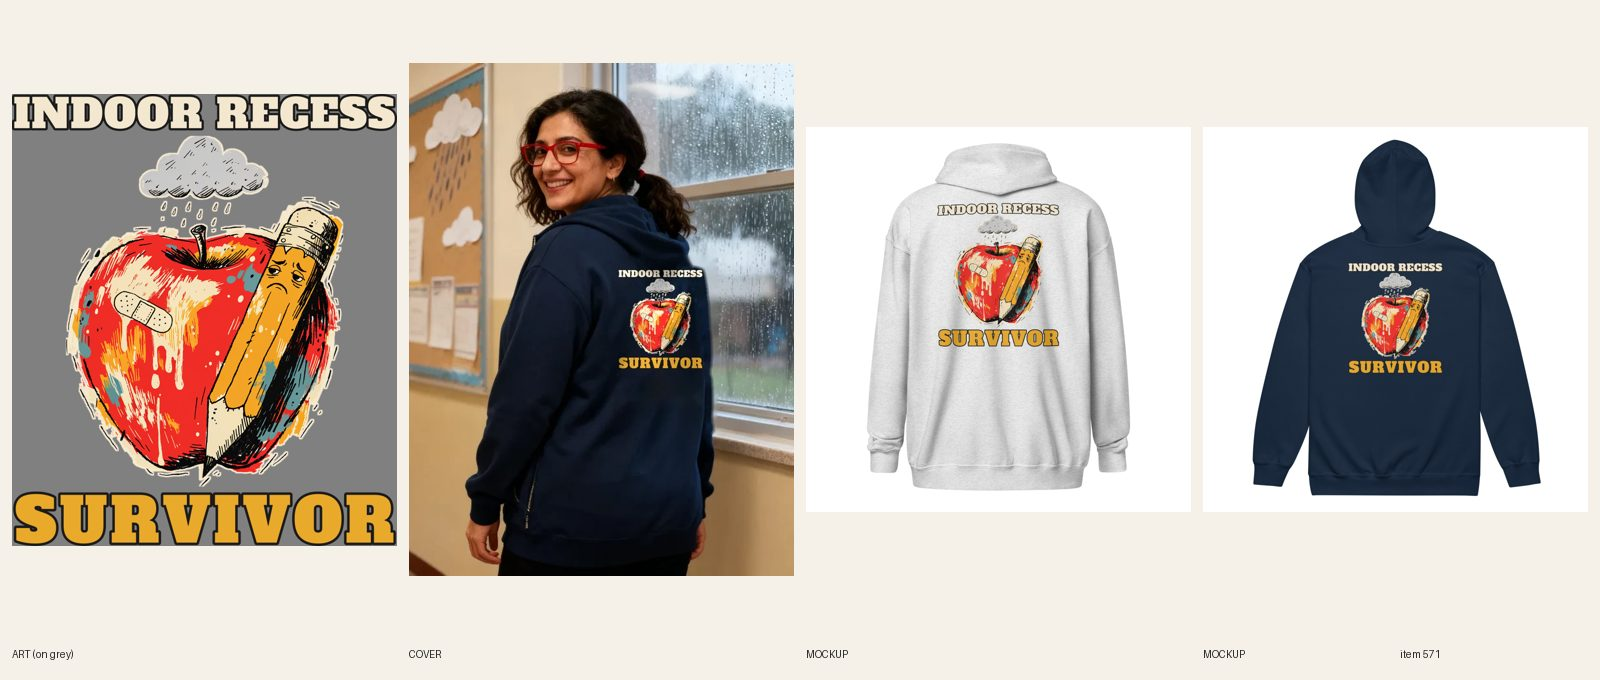
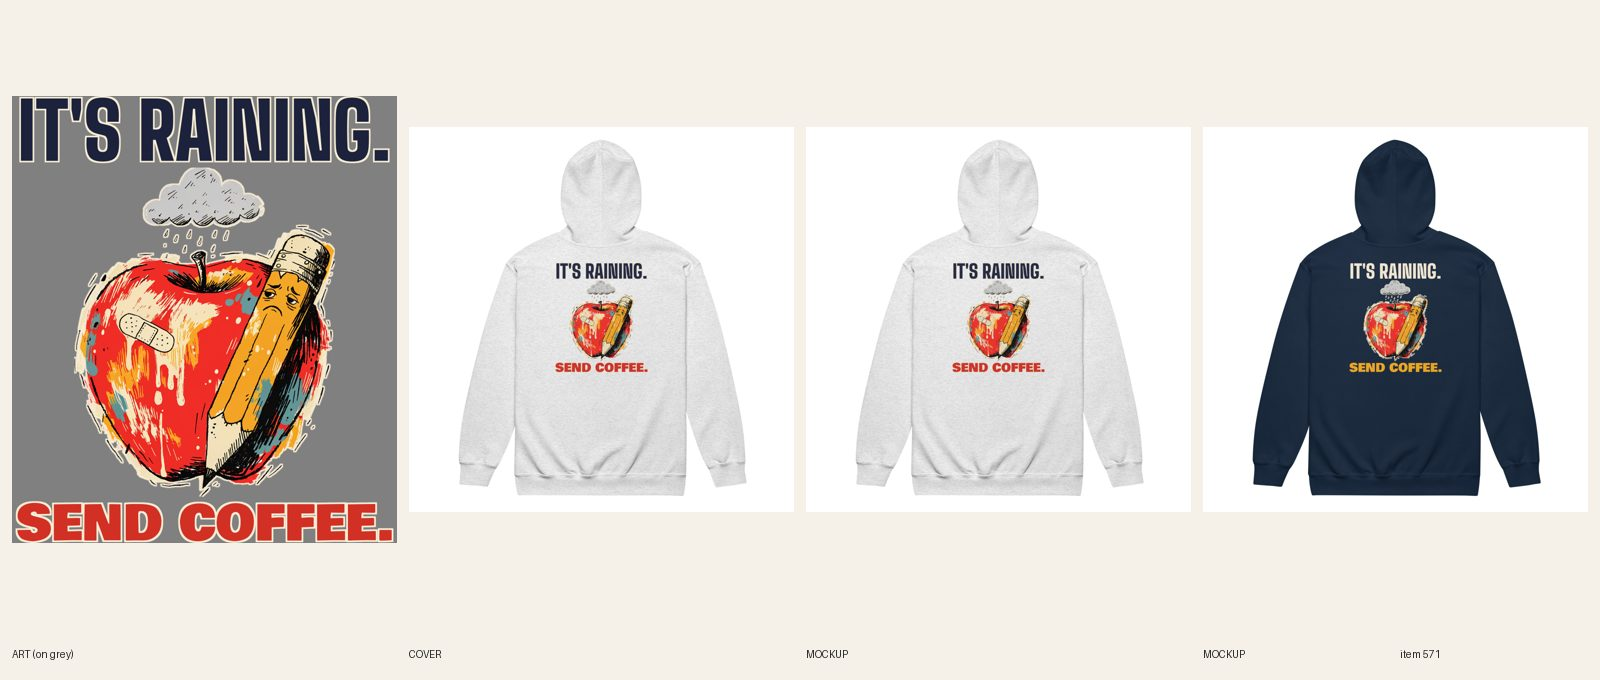
[C] review 571 (redo)
Claude-Session: https://claude.ai/code/session_01CCHcDj8LcJJ8qUPtKE3cvn

diff --git a/designs/c571/make.py b/designs/c571/make.py
@@ -1,0 +1,9 @@
+import sys; sys.path.insert(0,'.')
+from designs.lib import *
+im=Image.open('docs/print-files/571-teacher-zip-back.png').convert('RGBA'); W=im.width
+art=im.crop((0,337,W,3159)); art=art.crop(art.getbbox()); art=art.resize((int(art.width*0.94),int(art.height*0.94)),Image.LANCZOS)
+DK=(28,34,60,255); RED=(210,48,36,255); GOLD=(240,170,30,255); DGOLD=(170,104,0,255)
+for tag,c1,k1,c2,k2,bg in (('ash',DK,CREAM,RED,CREAM,(200,200,200,255)),('navy',CREAM,DK,GOLD,DK,(38,50,88,255))):
+    h1=line("IT'S RAINING.",'big',0.97,W,c1,k1,kw=27); h2=line("SEND COFFEE.",'bowlby',0.985,W,c2,k2,kw=29)
+    print(tag,'headline px',h1.width,'punch px',h2.width,'heights',h1.height,h2.height,'art',art.size)
+    out=lockup(art,W,[h1],[h2],f'571-v2-coffee-{tag}',{tag:bg}); print(out.size,out.height/out.width)

diff --git a/docs/pipeline/571-teacher-zip-hoodie-indoor-recess-survivor.md b/docs/pipeline/571-teacher-zip-hoodie-indoor-recess-survivor.md
@@ -1,4 +1,4 @@
-status: BUILDING [C] 2026-10-20 09:42
+status: REVIEW
 shopify: gid://shopify/Product/15364806410544
 lane: C
 type: twin
@@ -27,3 +27,4 @@ kd: 32
 - 2026-10-18 06:55 UTC builder [C]: Printful relink verified 12/12 on file 1088734026; REVIEW.
 - 2026-10-18 07:22 UTC director: approved from docs/review/571.jpg plus the Shopify Navy front mockup (small apple on the left chest, as the copy says); ACTIVE + Online Store + Headless + Google & YouTube. audit --handle PASS (0 warn). LIVE.
 - 2026-10-18 17:22 UTC director: QUALITY RESET grade C (new line + type), REDO. The product stays ACTIVE (same handle, URL, title keyword). 1. Line (R3.12, quality-reset 'Lines'): "INDOOR RECESS / SURVIVOR": Stock "X survivor" formula; teacher insider, no twist. Write 5 candidates, keep the one a stranger laughs at in 3 seconds without backstory; kill lines that only describe the picture; if none of the 5 is funny, PARK it. 2. Quality reset type bar (docs/backlog/quality-reset.md, 'The new bar'): headline at least 90% of the art width, heavy, colors pulled from the art; second line at least 45% of the headline's height, never a thin script on a dark or mid garment; use the lettering as a shape (arch, stacked lockup, words breaking into the art), not a plain bar above and a script line below; no font used on more than 1 in 6 of the last 30 designs. 3. Keep the art if it carries the new line, else one new illustration (R4/R5). New print means a new cover per R6.10, copy line one rewritten for the new joke (R8.3), and a fresh review sheet (R7.7). While quality-reset.md says PAUSED, only lane A builds, and only the samples step 2 names.
+- 2026-10-20 09:46 UTC builder [C]: REDO new line + type (grade C; title card 7i done). 5 candidates, compared with Politely, No., Oops. Anyway. and Plot Twist: I Stayed In: "IT'S RAINING. / SEND COFFEE." (kept: the rain cloud over the frazzled pencil is a rainy-day indoor-recess teacher, and the ask is the joke), "INDOOR RECESS SURVIVOR" (old 'X survivor' formula), "30 KIDS. 1 PENCIL. 0 PATIENCE.", "THE FLOOR IS LAVA. SO IS MY MOOD.", "RAIN DELAY. SEND HELP.". Same apple-pencil-cloud art at 94%. Measured ink widths (card 7h): headline IT'S RAINING. 2980 px / punch SEND COFFEE. 3042 px (102%). Big Shoulders Display Black headline, Bowlby One punch. Light-file (R5.3.8): Ash file 1090283743 (headline navy with a cream keyline, punch red), Navy file 1090283769 (headline cream with a navy keyline, punch mustard); docs/print-files/571-v2-coffee-ash.png / -navy.png; back 3099 x 3602, BW 1650 BT 225 (about 1,920 px high), chest file 1088734026 unchanged, 12/12 relinked (verified on the API). Both back mockups replaced in place, read at phone size. Title set to "Women's Teacher – It's Raining, Send Coffee Zip Hoodie" (handle unchanged); copy, FAQ ink sentence and SEO rewritten; handle in retired-covers.json. Plain product shot. fal $0.

diff --git a/docs/intake-log.md b/docs/intake-log.md
@@ -23,6 +23,7 @@ RUNNING lane B since 2026-10-20 09:02 UTC
 2026-10-20 07:44 UTC — [B] Builder run: REDO round 3 of #455 Unisex Hanukkah Lost My Gelt crewneck (dreidel face marks painted out, Navy file 1090236634 + Sport Grey file 1090236680, FW 1650 TOP 0, 12/12 relinked, 2 fronts replaced in place) and #469 Women's Christmas embroidered crewneck (new line BOOKED / THROUGH JANUARY., headline 2197 / punch 2197 px, Sand file 1090237592 + Navy file 1090237605, 12/12 synced, title/SEO/copy/alts updated). Both REVIEW. #498 left for director (R3.14 note). fal $0.
 2026-10-20 08:00 UTC — [E] Builder run: redid #608 Women's Pickleball tee (line + type: POLITE SMILE. / PERSONAL VENDETTA., same serene-lady art, Bevan, dark-ink file on 5 light colors, 30/30 synced). REVIEW. fal $0.
 RUNNING lane C since 2026-10-20 07:00 UTC
+2026-10-20 09:46 UTC — [C] Builder run: redid #571 Women's Teacher zip hoodie (new line + type: IT'S RAINING. / SEND COFFEE., headline 2980 px / punch 3042 px, Big Shoulders + Bowlby, same apple art, Ash file 1090283743 + Navy file 1090283769, BW 1650 BT 225, 12/12 relinked, back mockups replaced, title + copy + SEO updated). REVIEW. fal $0.
 2026-10-20 09:42 UTC — [C] Builder run: redid #528 Unisex Running zip hoodie (new line + type: ON MY WAY. / EVENTUALLY., headline 3482 px / punch 3535 px, Bowlby + Alfa, same snail art, Ash file 1090281314 + White file 1090281353, BW 1650 BT 225, 12/12 relinked, back mockups replaced, title + copy + SEO updated). REVIEW. fal $0.
 2026-10-20 09:35 UTC — [C] Builder run: redid #524 Women's Funny daisy hoodie (type only: I SAID IT NICELY Bowlby + IN MY HEAD. Alfa Slab, headline 3256 px / punch 3283 px, Sand file 1090279357 + Light Pink file 1090279421, FW 1500 TOP 0, 12/12 relinked, 2 fronts replaced in place, copy updated). REVIEW. fal $0.
 2026-10-20 09:29 UTC — [C] Builder run: redid #526 Men's Chess hoodie (twin of #442: SORRY ABOUT / YOUR PAWN., headline 3313 px / punch 3354 px, Alfa Slab, Ash file 1090277160 + Navy file 1090277197, FW 1500 TOP 0, 12/12 relinked, 2 fronts replaced in place, title + copy + SEO updated). REVIEW. fal $0.
